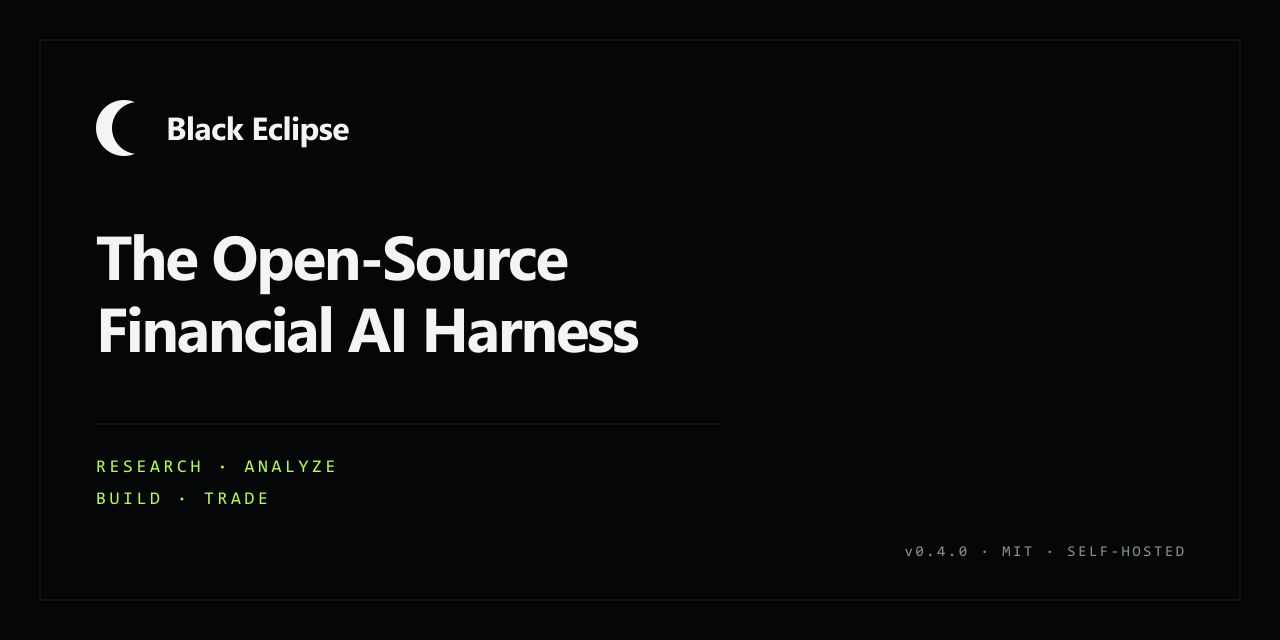
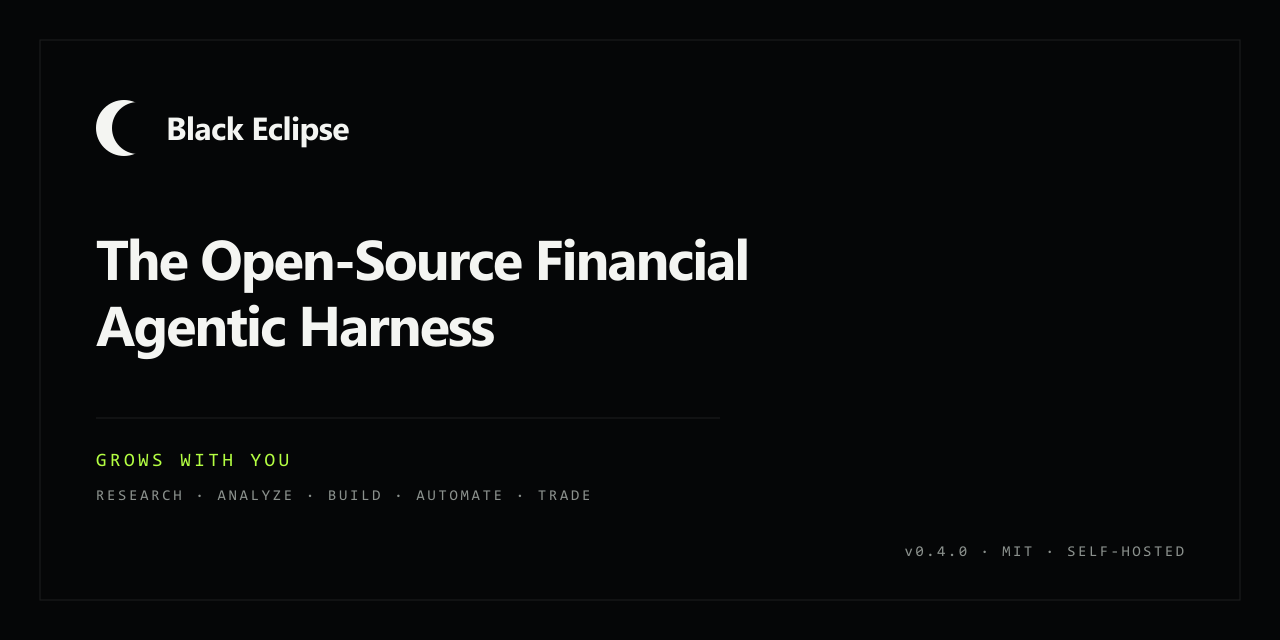
docs(readme): the harness now says it grows with you
Heading: 'The Open-Source Financial Agentic Harness' with 'Grows with you -
research, analyze, build, automate, trade.' The growth claim is backed before it
ships: memory accumulates context and accepts corrections (contradiction gate
recall 1.0), skills are versioned and evaluated, and learning candidates arrive
inert until a review promotes them - so it compounds under review rather than
rewriting itself.

Hermes Agent's README opens with 'The agent that grows with you', so the phrase
stays subordinate to the category line and the doc records why it must never be the
identity line on its own.

Also removes a duplicated CHANGELOG block left by the earlier conflict resolution.

diff --git a/Black-Eclipse-site/docs/CHANGELOG.md b/Black-Eclipse-site/docs/CHANGELOG.md
@@ -877,6 +877,19 @@ Older entries are **moved, never deleted** into [`docs/changelog/`](./changelog/
   `docs/data-and-privacy.md`, `docs/CHANGELOG.md`.
 
 ## 2026-11-16
+- **docs(readme): the harness now says it grows with you - backed, not borrowed.**
+  Heading moved from "The Open-Source Financial AI Harness" / "Research. Analyze.
+  Build. Automate. Trade." to **"The Open-Source Financial Agentic Harness"** /
+  **"Grows with you - research, analyze, build, automate, trade."** The growth claim
+  was checked before it shipped: memory accumulates context and accepts corrections
+  (`eclipse_memory/`, contradiction gate recall 1.0), skills are versioned and
+  evaluated, and learning candidates arrive **inert** until a review promotes them -
+  so "grows" means it compounds under review, not that it rewrites itself. Hermes
+  Agent's README opens with "The agent that grows with you", so the phrase is kept
+  subordinate to the category line, and `docs/public-readme.md` records why it must
+  never be the identity line on its own. Social card regenerated (agentic harness +
+  GROWS WITH YOU + the five verbs). docs updated: `docs/public-readme.md` (rule 6 +
+  evidence row), `docs/CHANGELOG.md`.
 
 - **fix(oss): a contributor's own email address no longer blocks the gate.** The
   namespace audit treated any non-noreply author reachable from an orphaned
@@ -1370,20 +1383,6 @@ Older entries are **moved, never deleted** into [`docs/changelog/`](./changelog/
   explicit local-only accept. Docs updated:
   `docs/harness/security.md`, `docs/harness/authentication.md`, `SECURITY.md`,
   `.env.example`, `docs/CHANGELOG.md`.
-- **docs(readme): say which data sources are commercial, which are not, and how to
-  add your own.** New "Data sources and commercial use" section, built from the
-  generated catalogue (`docs/data-sources.md`) rather than from memory: the three
-  tiers (included / connect your own / advanced), the commercial statuses
-  (`ok` / `attribution` / `personal-only` / `verify`), and an explicit
-  **personal-use-only** list - TradingView scanner, Yahoo Finance (`yfinance`),
-  Binance public ticker, CoinGecko keyless, DuckDuckGo HTML - with the reason they
-  are off by default. States that a source that is off cannot serve a screen because
-  `data-source-preferences.ts` is consulted at the fetch path, and that adding a
-  source is an entry in `source-catalog.ts` plus `npm run docs:data-sources`.
-  Carries the two qualifiers the catalogue itself carries: the table is an
-  informational snapshot of published terms, not legal advice or a licence grant;
-  and language models are separate (bring your own key, or Ollama locally).
-  docs updated: `docs/public-readme.md` (evidence row), `docs/CHANGELOG.md`.
 - **docs(readme): ship the Bots and Workflows screenshots, both captured from the
   installed app.** The two surfaces that carry the product argument are now the
   hero and the first grid row: **Bots** (13 agents with `Active`/`Completed` state,

diff --git a/Black-Eclipse-site/docs/public-readme.md b/Black-Eclipse-site/docs/public-readme.md
@@ -53,6 +53,7 @@ longer exists, the claim comes off the README.
 
 | Claim | Evidence in the tree |
 |---|---|
+| "Grows with you": memory accumulates context and accepts corrections; skills are versioned, evaluated and learned under review | `python/harness/eclipse_memory/` (corrections, contradiction detection; `contradictions_cli` gate recall 1.0 / false-conflict 0.0), `python/harness/skills/learning.py` + `harness/learning_review.py` (learning candidates arrive **inert** and are promoted by review, not automatically), `docs/harness/memory-skills-evolution-plan.md` |
 | Data-source tiers, commercial status and the "personal use only" set | `docs/data-sources.md` (generated from `src/lib/setup/source-catalog.ts`; the `commercial` field is an informational snapshot, not a licence grant); enforced at the fetch path by `src/lib/data-source-preferences.ts` |
 | One download, no Node/Python/database prerequisite | `scripts/desktop-package.js` (payload: `runtime/node.exe` + `scripts/vendor/python` + `app/`), `scripts/package-python.js`; the NSIS manifest is `RequestExecutionLevel user` with `InstallDir $LOCALAPPDATA\Programs\BlackEclipse` |
 | Optional feature packs are lazy, not required | `scripts/desktop-packs.js` header: "the harness imports them lazily, so the app runs without them and gains the capability when the folder appears" |
@@ -148,8 +149,15 @@ a blank canvas and a spinner. That was tried twice and rejected both times.
    purpose. Never round it to zero or to a pass.
 5. **Never claim a distribution that does not exist.** The install block leads
    with the source install and labels PyPI as pending (§6).
-6. **The heading states the category.** *The Open-Source Financial AI Harness*
-   tells a stranger what this is; the four verbs tell them what it is for.
+6. **The heading states the category.** *The Open-Source Financial Agentic Harness*
+   tells a stranger what this is; the line beneath ("Grows with you — research,
+   analyze, build, automate, trade") tells them what it is for and what it does over
+   time. **"Grows with you" is the idea, not a borrowed tagline:** Hermes Agent's
+   README opens with *"The agent that grows with you"*, so ours must never be the
+   identity line on its own — it sits under a category statement, and the evidence
+   row in §2 keeps it honest (learning candidates are inert until reviewed; memory
+   accepts corrections). If someone asks what grows, the answer is: your memory, your
+   corrections, and the skills that get promoted from your own runs.
 7. **No vendor trademark in the positioning.** Not a "Bloomberg replacement" — a
    terminal is a data product, this is infrastructure. `docs/OPEN-SOURCE-READINESS.md`
    O6 flags vendor wording for a trademark read.

diff --git a/README.md b/README.md
@@ -1,8 +1,8 @@
 # Black Eclipse
 
-### The Open-Source Financial AI Harness
+### The Open-Source Financial Agentic Harness
 
-**Research. Analyze. Build. Automate. Trade.**
+**Grows with you — research, analyze, build, automate, trade.**
 
 [![Download for Windows](.github/assets/download-windows.svg)](https://github.com/desimarijuana/BlackEclipse-V1.0/releases/latest/download/BlackEclipse-Setup.exe) [![Download for Linux](.github/assets/download-linux.svg)](https://github.com/desimarijuana/BlackEclipse-V1.0/releases/latest/download/BlackEclipse-linux-amd64.deb) [![Download for macOS](.github/assets/download-macos.svg)](https://github.com/desimarijuana/BlackEclipse-V1.0/releases/latest/download/BlackEclipse-mac-arm64.dmg)
 
